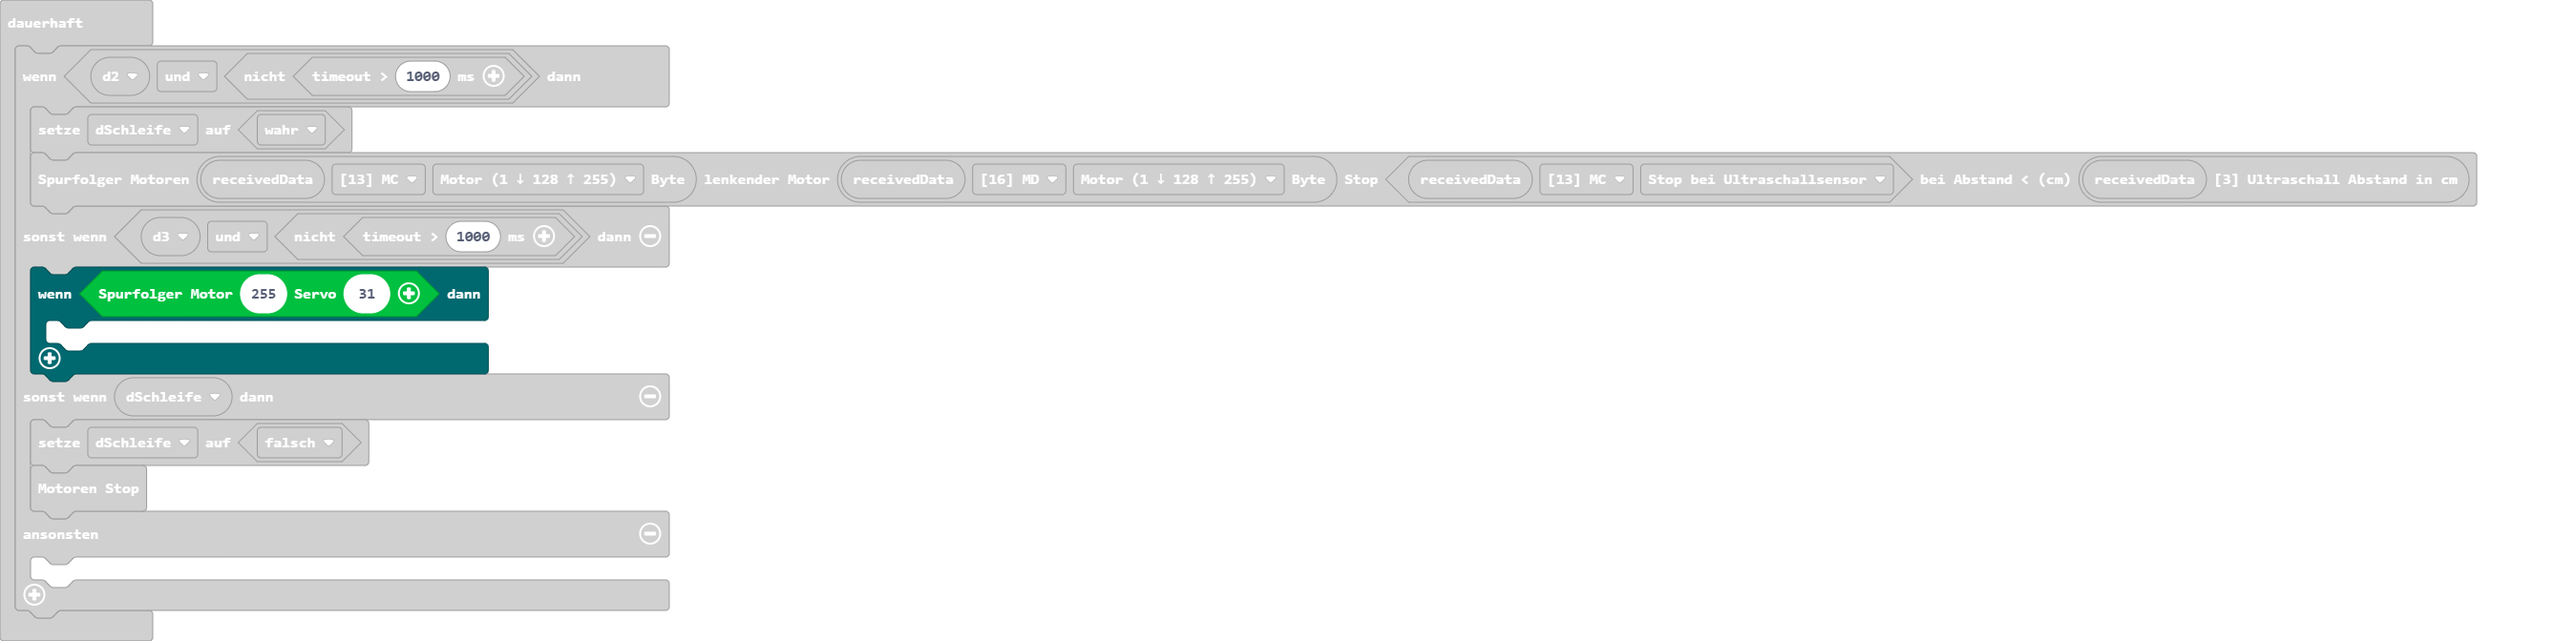
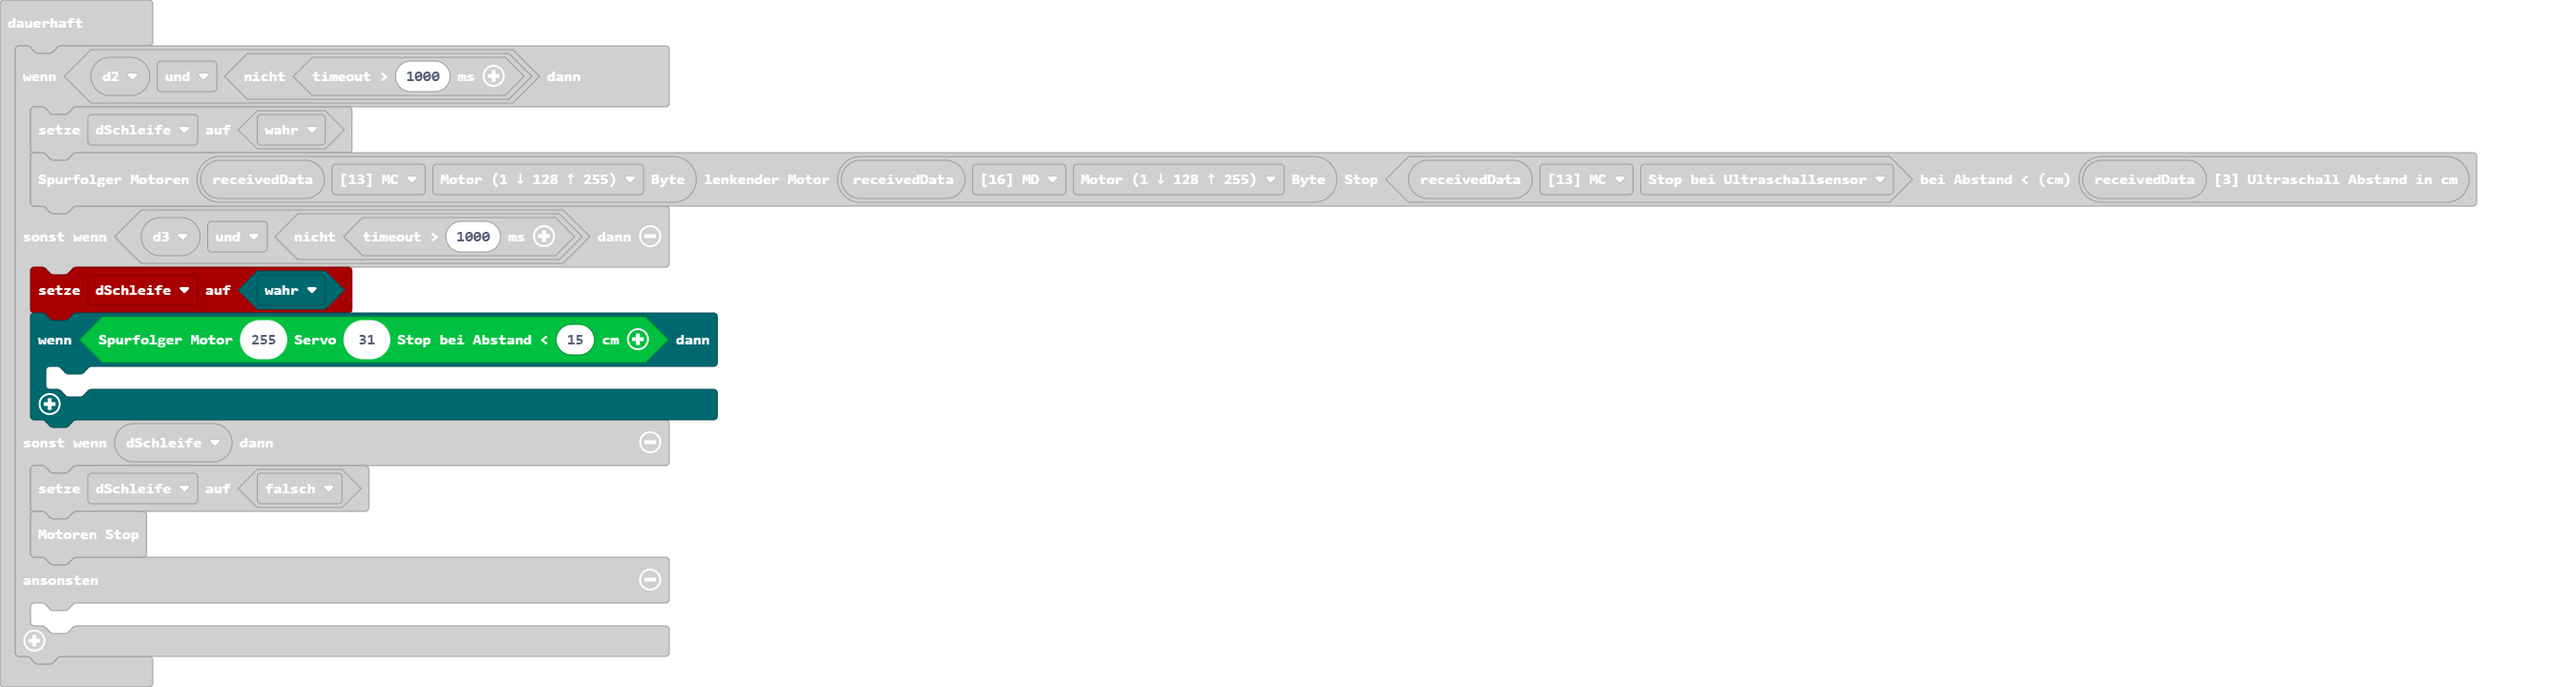
Aktualisiere pxt.json, main.blocks, main.ts

Changed region(s): [[0.0, 0.0312, 0.9652, 0.9688]]

diff --git a/main.ts b/main.ts
@@ -40,7 +40,8 @@ basic.forever(function () {
         dSchleife = true
         cb2.beispielSpurfolger(btf.getByte(btf.btf_receivedBuffer19(), btf.eBufferPointer.mc, btf.eBufferOffset.b0_Motor), btf.getByte(btf.btf_receivedBuffer19(), btf.eBufferPointer.md, btf.eBufferOffset.b0_Motor), btf.getSensor(btf.btf_receivedBuffer19(), btf.eBufferPointer.mc, btf.eSensor.b6), btf.getAbstand(btf.btf_receivedBuffer19()))
     } else if (d3 && !(btf.timeout(1000))) {
-        if (cb2.beispielSpurfolger16(255, 31)) {
+        dSchleife = true
+        if (cb2.beispielSpurfolger16(255, 31, 15)) {
         	
         }
     } else if (dSchleife) {
